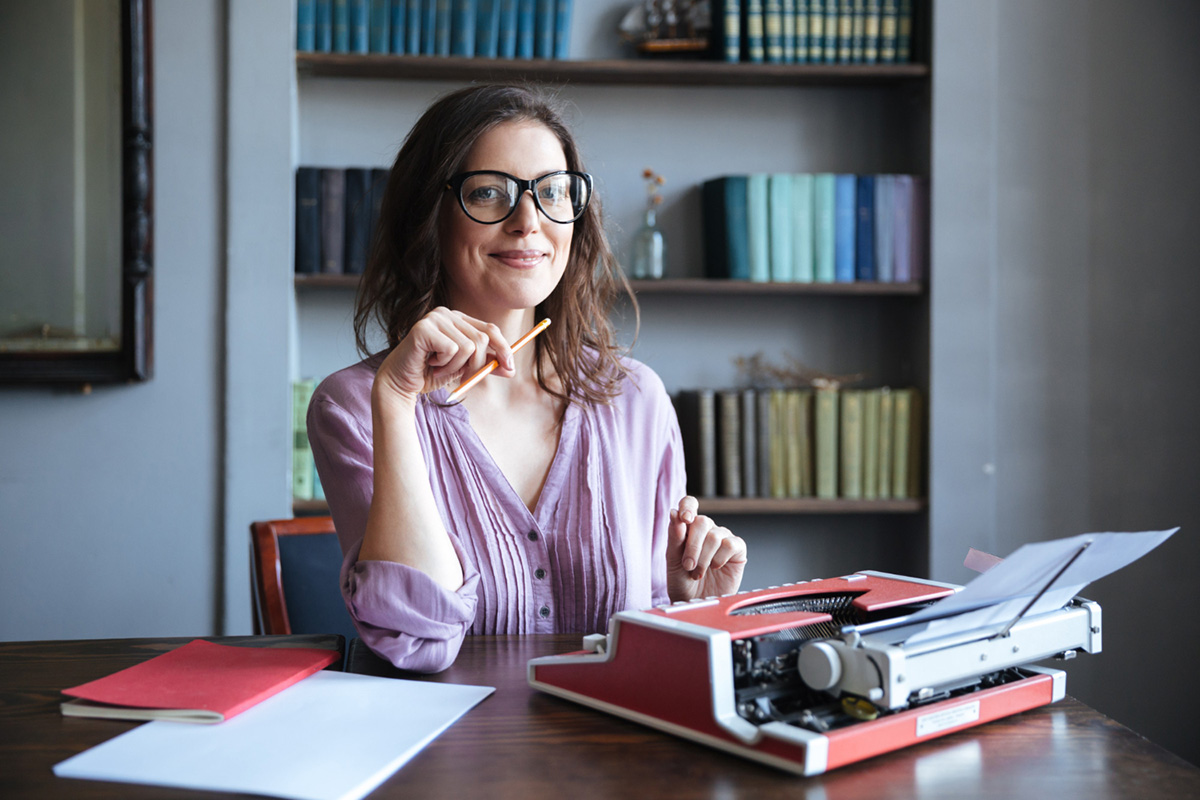
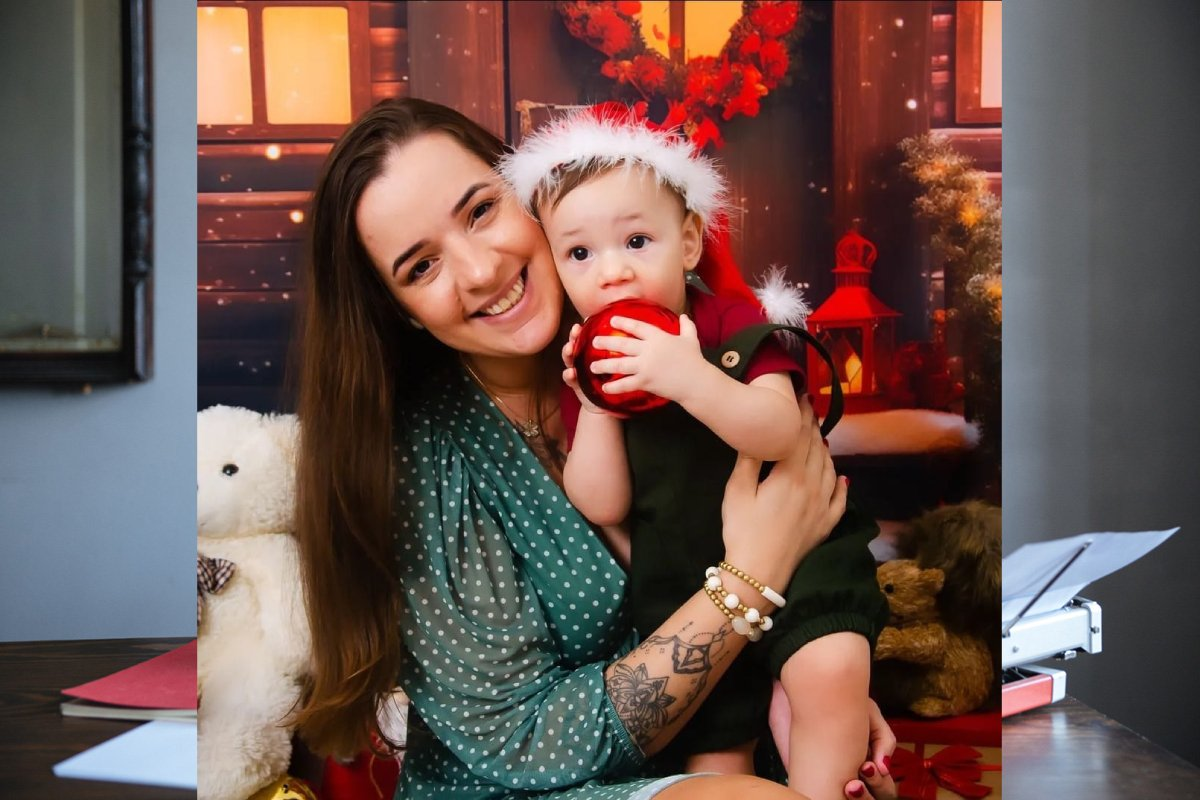
novas atualizaç~es

diff --git a/index.html b/index.html
@@ -69,31 +69,28 @@ https://templatemo.com/tm-588-ebook-landing
                     <div class="collapse navbar-collapse" id="navbarNav">
                         <ul class="navbar-nav ms-lg-auto me-lg-4">
                             <li class="nav-item">
-                                <a class="nav-link click-scroll" href="#section_1">Home</a>
+                                <a class="nav-link click-scroll" href="#section_1">Página Inicial</a>
                             </li>
     
                             <li class="nav-item">
-                                <a class="nav-link click-scroll" href="#section_2">The Book</a>
+                                <a class="nav-link click-scroll" href="#section_2">Sabores</a>
                             </li>
 
                             <li class="nav-item">
-                                <a class="nav-link click-scroll" href="#section_3">Author</a>
+                                <a class="nav-link click-scroll" href="#section_3">Quem Somos?</a>
                             </li>
 
                             <li class="nav-item">
-                                <a class="nav-link click-scroll" href="#section_4">Reviews</a>
+                                <a class="nav-link click-scroll" href="#section_4">Depoimentos</a>
                             </li>
 
                             <li class="nav-item">
-                                <a class="nav-link click-scroll" href="#section_5">Contact</a>
+                                <a class="nav-link click-scroll" href="#section_5">Contato</a>
                             </li>
                         </ul>
 
                         <div class="d-none d-lg-block">
-                            <a href="#" class="btn custom-btn custom-border-btn btn-naira btn-inverted">
-                                <i class="btn-icon bi-cloud-download"></i>
-                                <span>Download</span><!-- duplicated above one for mobile -->
-                            </a>
+                           
                         </div>
                     </div>
                 </div>
@@ -129,25 +126,7 @@ https://templatemo.com/tm-588-ebook-landing
                     <div class="row">
 
                         <div class="col-lg-8 col-12">
-                            <div class="avatar-group d-flex flex-wrap align-items-center">
-                                <img src="images/avatar/portrait-beautiful-young-woman-standing-grey-wall.jpg" class="img-fluid avatar-image" alt="">
-
-                                <img src="images/avatar/portrait-young-redhead-bearded-male.jpg" class="img-fluid avatar-image avatar-image-left" alt="">
-
-                                <img src="images/avatar/pretty-blonde-woman.jpg" class="img-fluid avatar-image avatar-image-left" alt="">
-
-                                <img src="images/avatar/studio-portrait-emotional-happy-funny-smiling-boyfriend.jpg" class="img-fluid avatar-image avatar-image-left" alt="">
-
-                                <div class="reviews-group mt-3 mt-lg-0">
-                                    <strong>4.5</strong>
-
-                                    <i class="bi-star-fill"></i>
-                                    <i class="bi-star-fill"></i>
-                                    <i class="bi-star-fill"></i>
-                                    <i class="bi-star-fill"></i>
-                                    <i class="bi-star"></i>
-
-                                    <small class="ms-3">2,564 reviews</small>
+                            
                                 </div>
                             </div>
                         </div>
@@ -180,23 +159,15 @@ https://templatemo.com/tm-588-ebook-landing
                 <div class="container">
                     <div class="row">
 
-                        <div class="col-lg-12 col-12 text-center">
-                            <h6>What's inside?</h6>
-
-                            <h2 class="mb-5">Preview at glance</h2>
-                        </div>
+                        
 
                         <div class="col-lg-4 col-12">
                             <nav id="navbar-example3" class="h-100 flex-column align-items-stretch">
                                 <nav class="nav nav-pills flex-column">
                                     
-                                    <a class="nav-link smoothscroll" href="#item-2">Chapter 1: <strong>Win back your time</strong></a>
+                                    <a class="nav-link smoothscroll" href="#item-2">Ações Comemorativas</strong></a>
 
-                                    <a class="nav-link smoothscroll" href="#item-3">Chapter 2: <strong>Work less, do more</strong></a>
-
-                                    <a class="nav-link smoothscroll" href="#item-4">Chapter 3: <strong>Delegate</strong></a>
-
-                                    <a class="nav-link smoothscroll" href="#item-5">Chapter 4: <strong>Habits</strong></a>
+                                 
                                 </nav>
                             </nav>
                         </div>
@@ -205,13 +176,13 @@ https://templatemo.com/tm-588-ebook-landing
                             <div data-bs-spy="scroll" data-bs-target="#navbar-example3" data-bs-smooth-scroll="true" class="scrollspy-example-2" tabindex="0">
                                 <div class="scrollspy-example-item" id="item-1">
                                     
-                                    <blockquote class="blockquote">Lorem Ipsum dolor sit amet, consectetur adipsicing kengan omeg kohm tokito</blockquote>
+                                    <blockquote class="blockquote">A vida é curta! Não deixe para amanhã o doce que você pode comer hoje!>
 
-                                    <p>When you need free HTML CSS templates, please visit Templatemo website which provides a variety of templates.</p>
+       
                                 </div>
 
                                 <div class="scrollspy-example-item" id="item-2">
-                                    <h5>Win back your time</h5>
+                                    <h5>Páscoa</h5>
 
                                     <p>Lorem ipsum dolor sit amet, consectetur adipisicing elit, sed do eiusmod tempor incididunt ut labore et dolore magna aliqua.</p>
 
@@ -221,11 +192,11 @@ https://templatemo.com/tm-588-ebook-landing
 
                                     <div class="row">
                                         <div class="col-lg-6 col-12 mb-3">
-                                            <img src="images/portrait-mature-smiling-authoress-sitting-desk.jpg" class="scrollspy-example-item-image img-fluid" alt="">
+                                            <img src="images/pascoa2.jpg" class="scrollspy-example-item-image img-fluid" alt="">
                                         </div>
 
                                         <div class="col-lg-6 col-12 mb-3">
-                                            <img src="images/businessman-sitting-by-table-cafe.jpg" class="scrollspy-example-item-image img-fluid" alt="">
+                                            <img src="images/ovo2.jpg" class="scrollspy-example-item-image img-fluid" alt="">
                                         </div>
                                     </div>
 
@@ -297,13 +268,12 @@ https://templatemo.com/tm-588-ebook-landing
                         </div>
 
                         <div class="col-lg-6 col-12 mt-5 mt-lg-0">
-                            <h6>Meet Author</h6>
+                            <h6>Por trás do Brigadeiro </h6>
 
-                            <h2 class="mb-4">Prof. Sophia</h2>
+                            <h2 class="mb-4">Mika</h2>
 
-                            <p>This is an ebook landing page template with Bootstrap 5 CSS framework. It is easy to customize with the use of Bootstrap CSS classes.</p>
+                            <p>A Brigaderia surgiu em Julho de 2023, eu tinha acabado de me tornar mãe e precisei pedir demissão do meu trabalho para me dedicar ao meu filho, então vi na confeitaria uma forma de ter uma renda sem abrir mão de ficar perto do meu bebê. O que eu não eu não esperava era me apaixonar pelo mundo dos brigadeiros e que eles seriam um sucesso onde quer que fossem. Foi uma surpresa incrível e eu amo o que faço.❤</p>
 
-                            <p>Lorem ipsum dolor sit amet, consive adipisicing elit, sed do eiusmod. tempor incididunt ut labore.</p>
                         </div>
 
                     </div>
@@ -417,7 +387,7 @@ https://templatemo.com/tm-588-ebook-landing
                         <div class="col-lg-5 col-12 mx-auto">
                             <form class="custom-form ebook-download-form bg-white shadow" action="#" method="post" role="form">
                                 <div class="text-center mb-5">
-                                    <h2 class="mb-1">Get your free ebook</h2>
+                                    <h2 class="mb-1">Fique por dentro das promoções!!</h2>
                                 </div>
 
                                 <div class="ebook-download-form-body">
@@ -438,7 +408,7 @@ https://templatemo.com/tm-588-ebook-landing
                                     </div>
 
                                     <div class="col-lg-8 col-md-10 col-8 mx-auto">
-                                        <button type="submit" class="form-control">Download ebook</button>
+                                        <button type="submit" class="form-control">Enviar</button>
                                     </div>
                                 </div>
                             </form>
